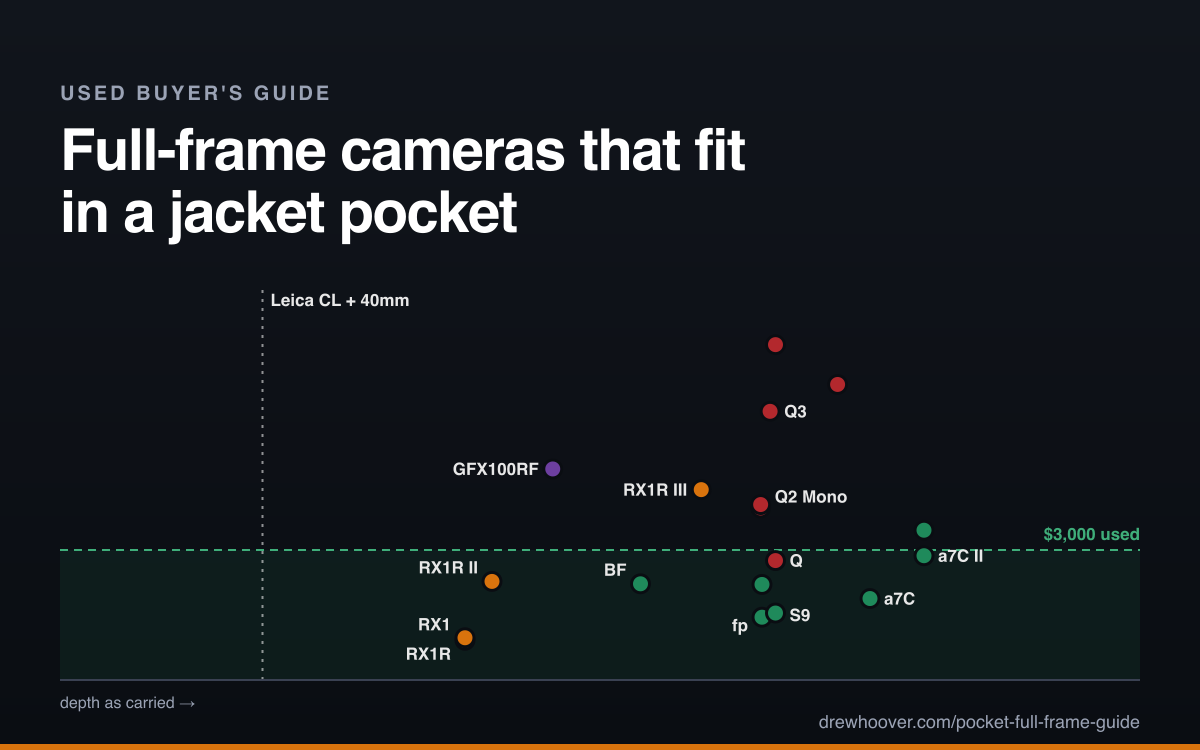
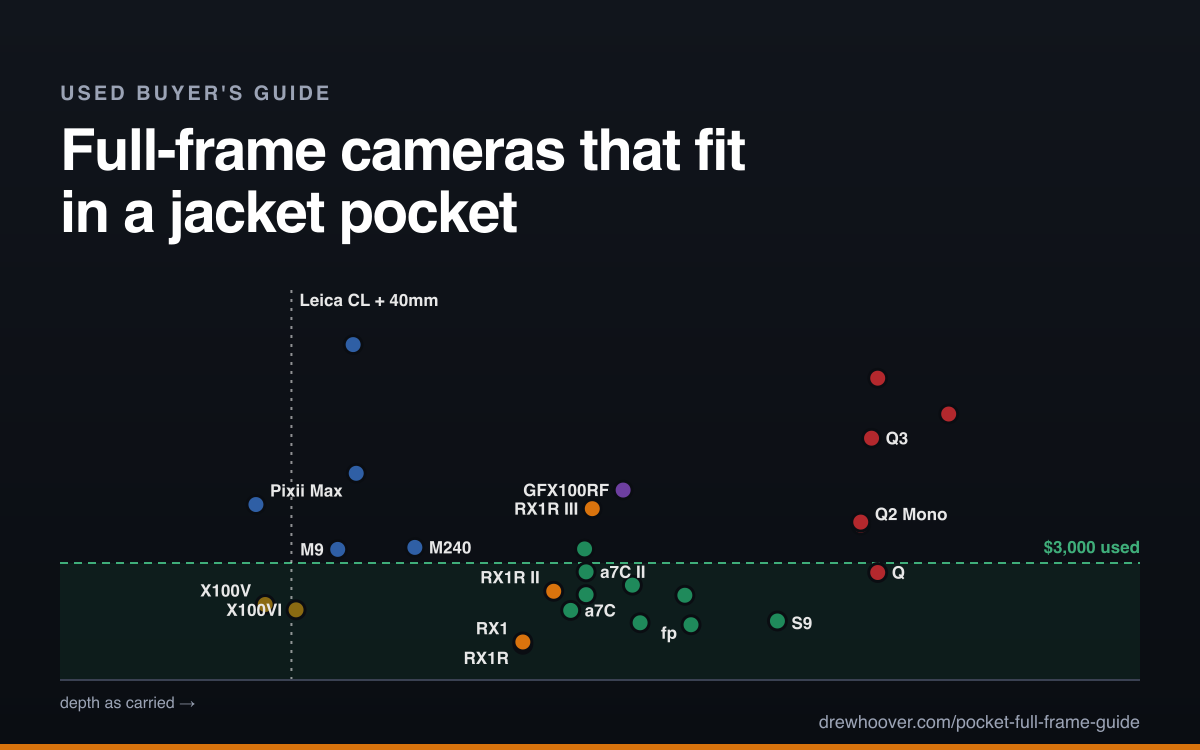
Projects: refresh the pocket guide card for the widened scope

diff --git a/src/content/projects/pocket-full-frame-guide.md b/src/content/projects/pocket-full-frame-guide.md
@@ -1,6 +1,6 @@
 ---
 title: Pocket full-frame camera guide
-blurb: "Which full-frame camera fits in a jacket pocket for $3,000 used? Sony's RX1 line, Leica's Q line, the Zeiss ZX1, the smallest interchangeable bodies with a pancake lens, and the GFX100RF, compared on depth as carried, lens, usable ISO, finder, battery, reliability, and used prices at B&H, KEH and Adorama. Built as the digital version of a Leica CL."
+blurb: "Which camera carries like a Leica CL for $3,000 used? Sony RX1 and Leica Q compacts, Leica M bodies wearing the CL's own Summicron-C, small interchangeable bodies with a thin 40mm, and the two APS-C X100s that give up nothing else, compared on depth as carried, lens, finder, battery, reliability, and used prices at B&H, KEH and Adorama."
 liveUrl: https://drewhoover.com/pocket-full-frame-guide/
 repoUrl: https://github.com/DrewHoo/pocket-full-frame-guide
 tags:
@@ -9,7 +9,7 @@ stack:
   - React
   - Vite
 cover: /projects/pocket-full-frame-guide.png
-coverAlt: A scatter plot of pocketable full-frame cameras by depth as carried and used price, with a $3,000 budget line and the Leica CL marked
+coverAlt: A scatter plot of pocketable cameras by depth as carried and used price, with a $3,000 budget line and the Leica CL marked
 pinned: false
 order: 20
 created: 2026-09-25
